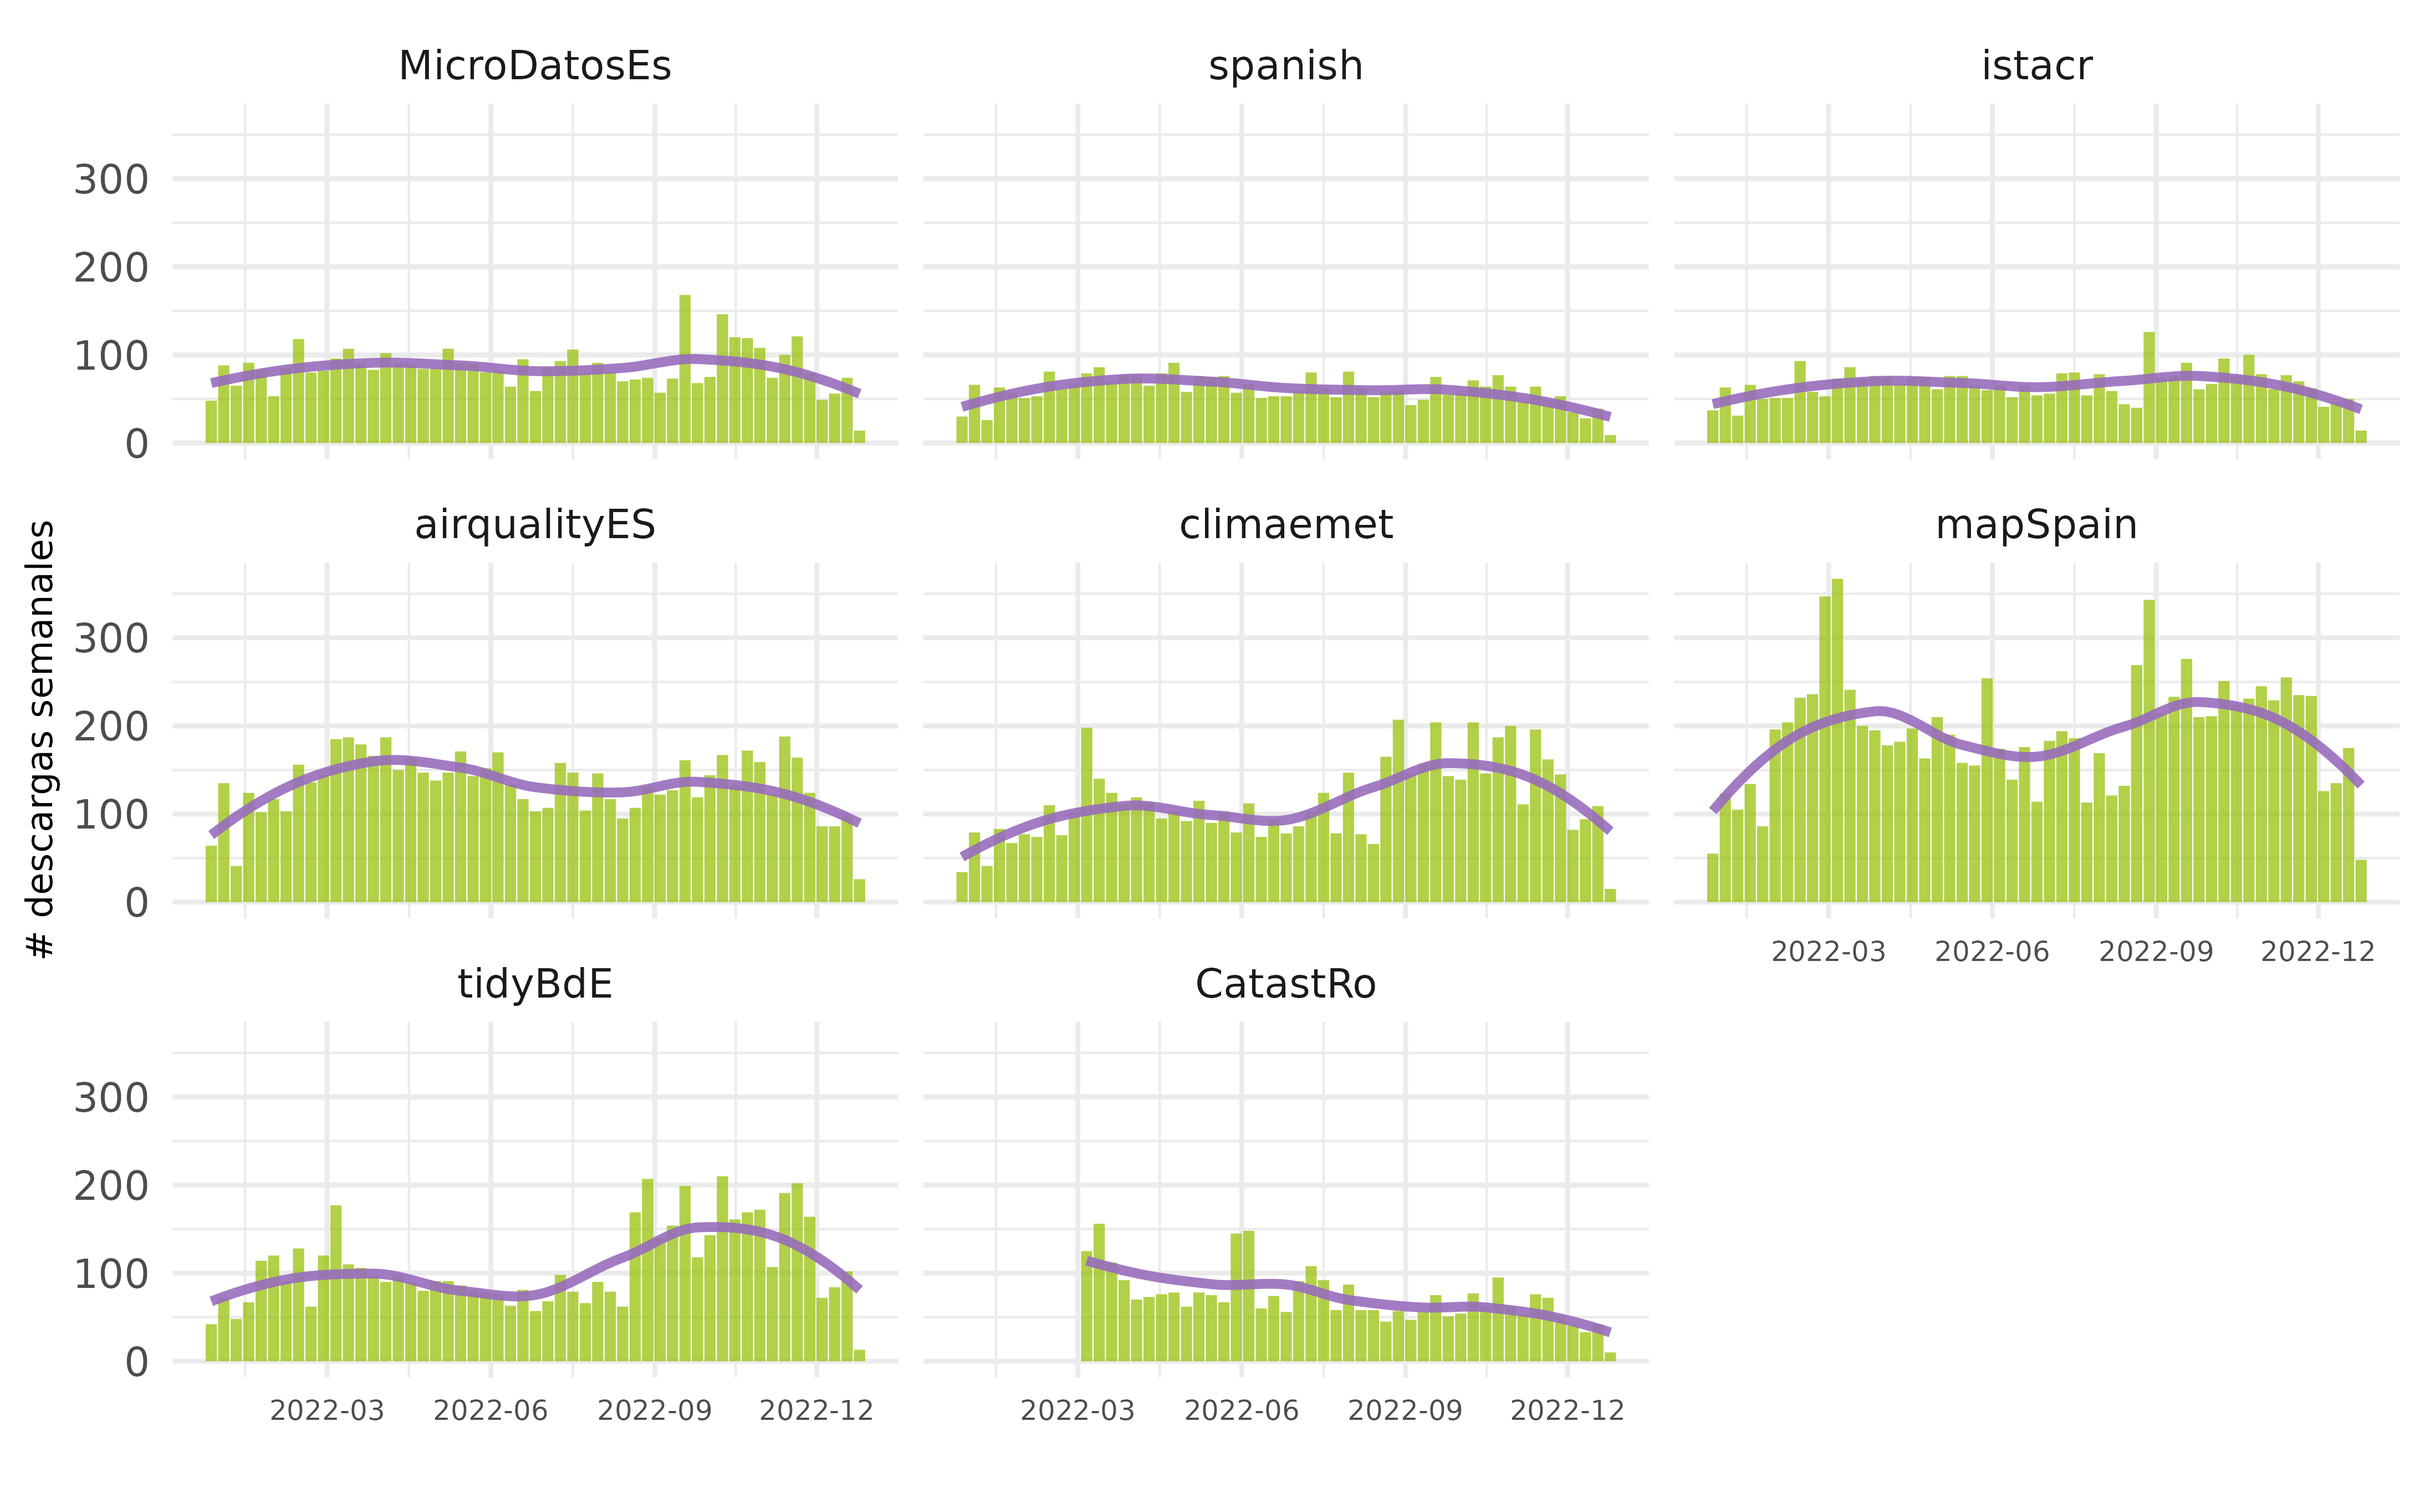
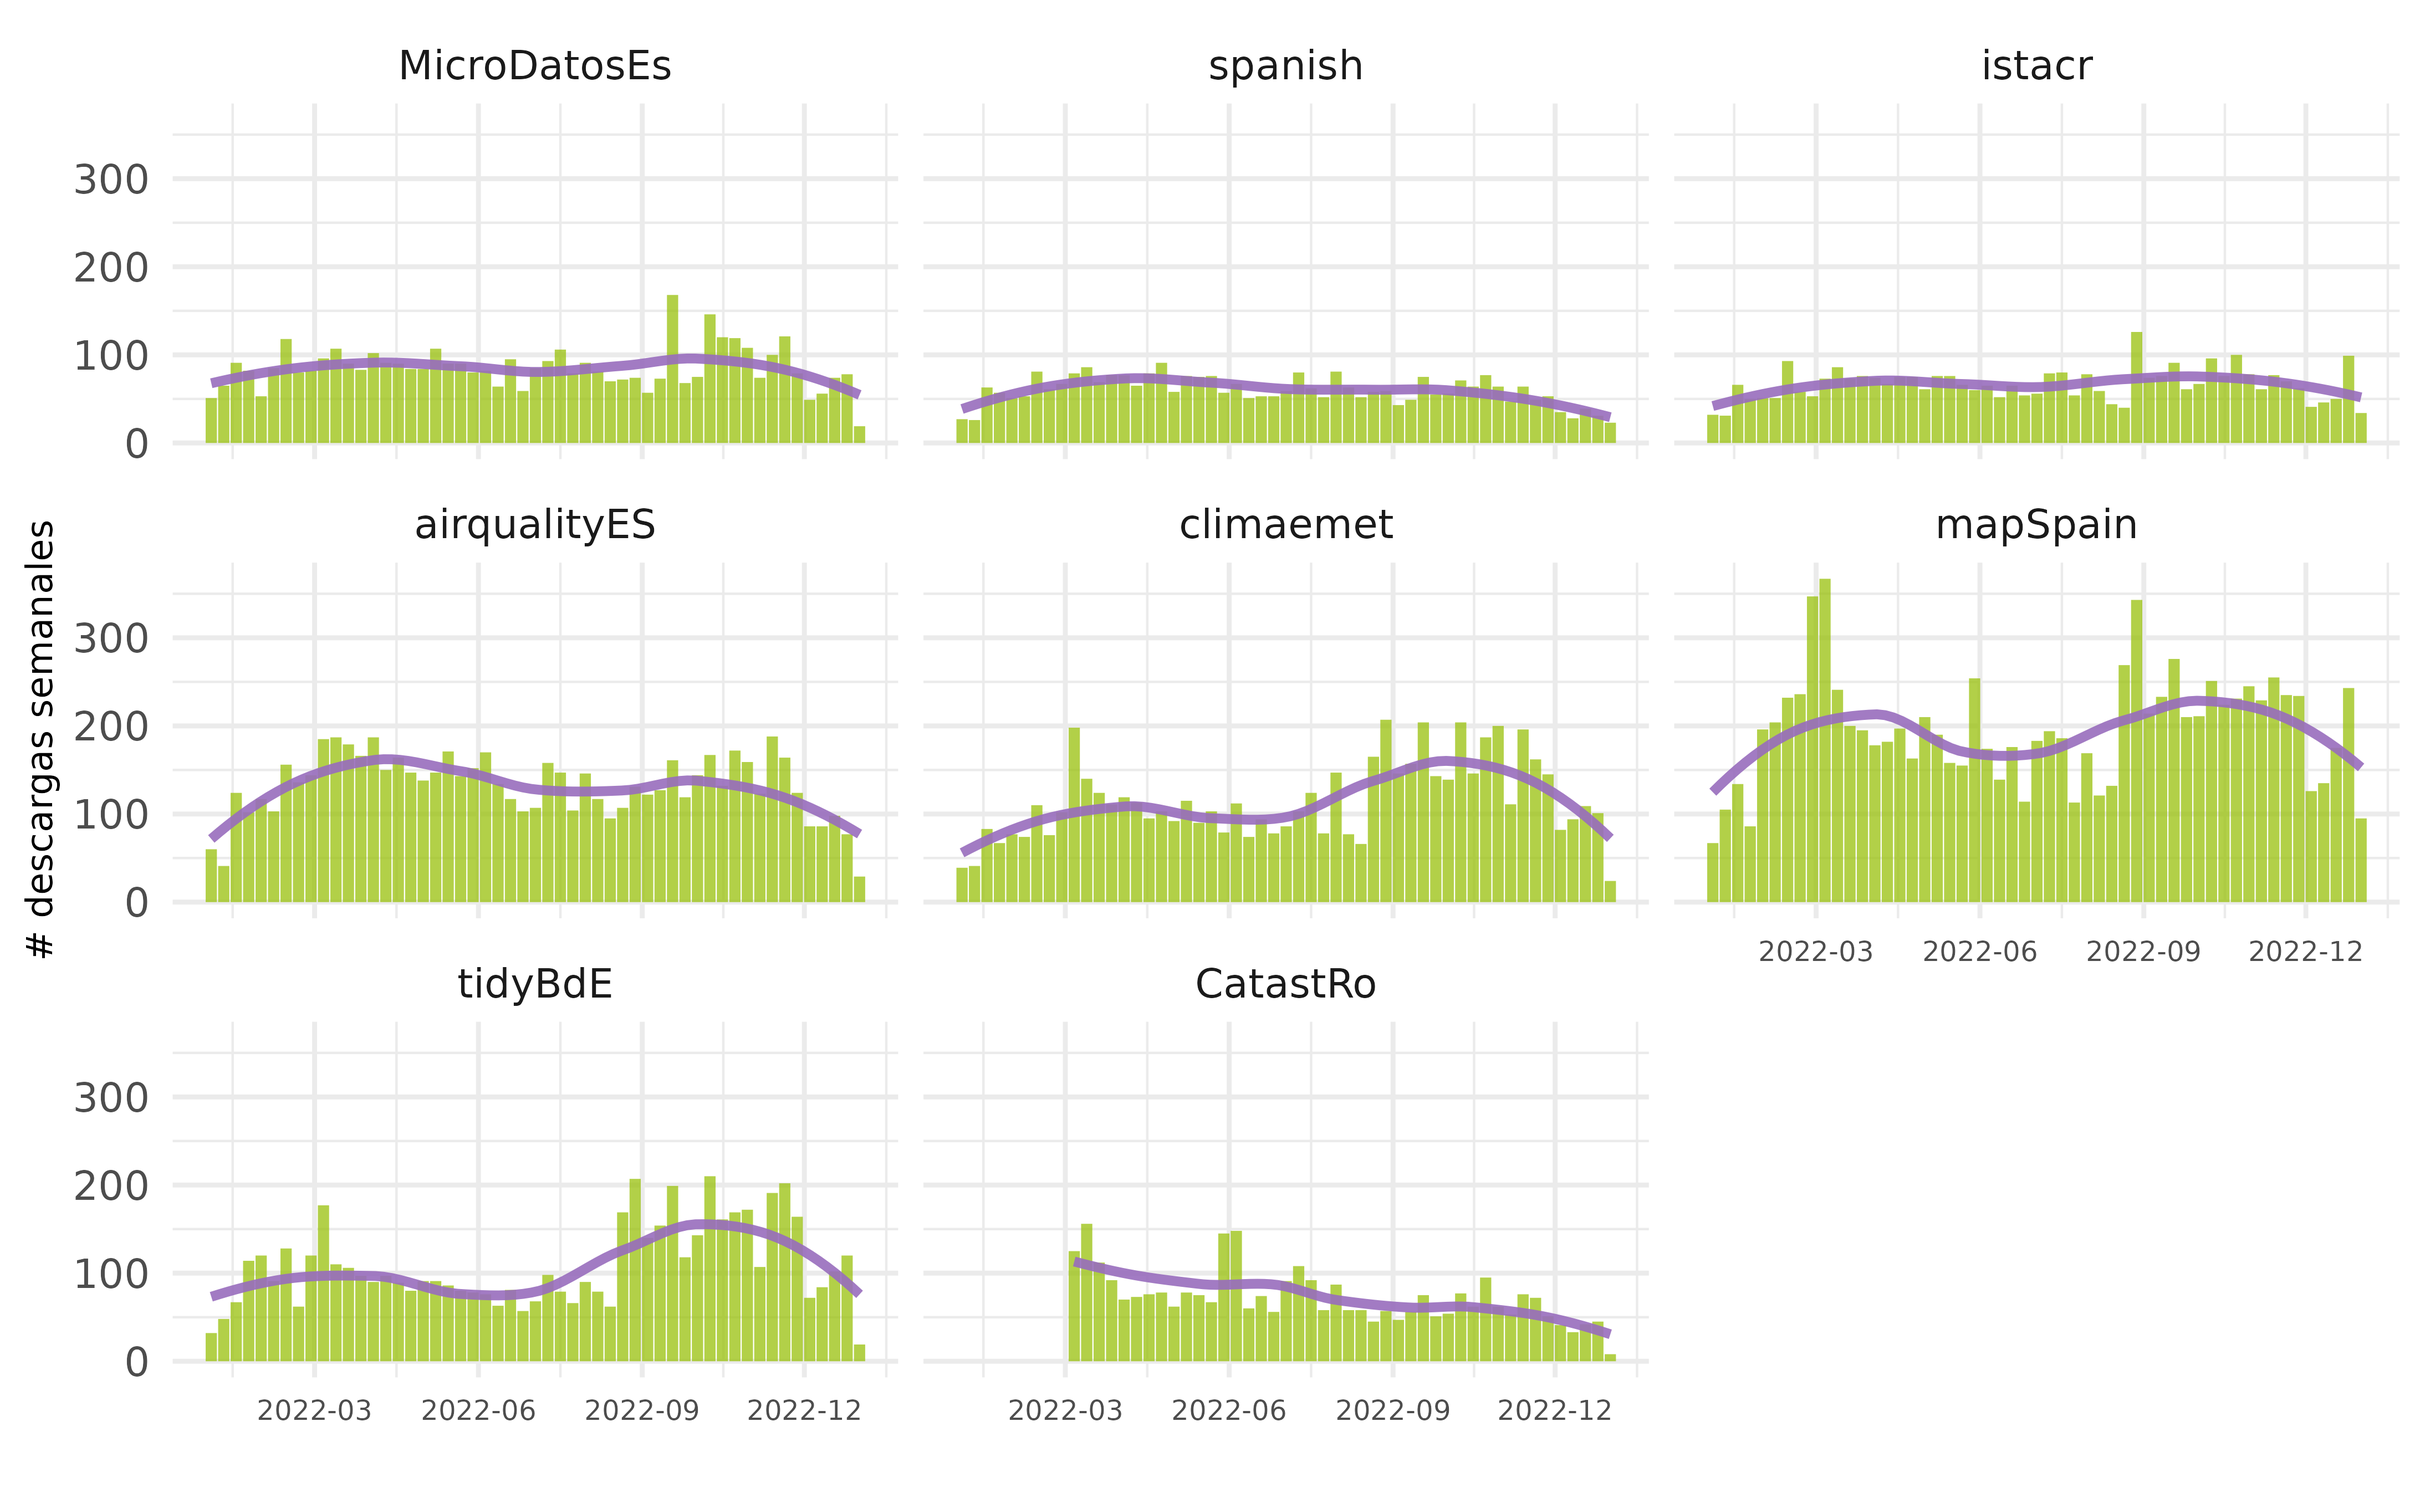
Built site for rostemplate: 0.1.1.9000@9bdd130

diff --git a/articles/descargas.html b/articles/descargas.html
@@ -101,7 +101,7 @@
 
     
     
-<p><em>Fecha de actualización: 22 Dec 2022</em></p>
+<p><em>Fecha de actualización: 29 Dec 2022</em></p>
 <p>Descargas de paquetes de rOpenSpain desde CRAN.</p>
 <div class="section level2">
 <h2 id="total-de-descargas">Total de descargas<a class="anchor" aria-label="anchor" href="#total-de-descargas"></a>
@@ -117,7 +117,7 @@
 <h2 id="datos">Datos<a class="anchor" aria-label="anchor" href="#datos"></a>
 </h2>
 <div class="reactable html-widget html-fill-item-overflow-hidden html-fill-item" id="station-table" style="width:auto;height:auto;"></div>
-<script type="application/json" data-for="station-table">{"x":{"tag":{"name":"Reactable","attribs":{"data":{"paquete":["CatastRo","tidyBdE","mapSpain","climaemet","airqualityES","istacr","spanish","MicroDatosEs"],"en CRAN":["2022-02-28","2021-04-08","2020-11-30","2020-07-07","2020-02-29","2019-04-24","2017-12-14","2013-10-21"],"media descargas diarias":[10.7,16,24.4,16.1,21.2,12.8,11.4,13.2],"ultimo dia":[5,6,21,5,11,8,5,5],"ultima semana":[29,54,118,58,70,39,33,61],"ultimo mes":[167,378,647,403,380,204,153,253],"ultimo año":[3158,5732,10253,6076,7072,3483,3188,4538]},"columns":[{"id":"paquete","name":"paquete","type":"character"},{"id":"en CRAN","name":"en CRAN","type":"Date"},{"id":"media descargas diarias","name":"media descargas diarias","type":"numeric"},{"id":"ultimo dia","name":"ultimo dia","type":"numeric"},{"id":"ultima semana","name":"ultima semana","type":"numeric"},{"id":"ultimo mes","name":"ultimo mes","type":"numeric"},{"id":"ultimo año","name":"ultimo año","type":"numeric"}],"filterable":true,"searchable":true,"showPageSizeOptions":true,"paginationType":"jump","striped":true,"elementId":"station-table","dataKey":"ae15e701faf248ce11bce1e3498cf6f6"},"children":[]},"class":"reactR_markup"},"evals":[],"jsHooks":[]}</script>
+<script type="application/json" data-for="station-table">{"x":{"tag":{"name":"Reactable","attribs":{"data":{"paquete":["CatastRo","tidyBdE","mapSpain","climaemet","airqualityES","istacr","spanish","MicroDatosEs"],"en CRAN":["2022-02-28","2021-04-08","2020-11-30","2020-07-07","2020-02-29","2019-04-24","2017-12-14","2013-10-21"],"media descargas diarias":[10.6,16,24.6,16.1,21.1,12.9,11.4,13.2],"ultimo dia":[3,3,33,10,5,12,11,4],"ultima semana":[29,114,264,92,66,103,37,70],"ultimo mes":[154,364,715,375,332,253,144,255],"ultimo año":[3201,5776,10432,6112,7013,3534,3164,4536]},"columns":[{"id":"paquete","name":"paquete","type":"character"},{"id":"en CRAN","name":"en CRAN","type":"Date"},{"id":"media descargas diarias","name":"media descargas diarias","type":"numeric"},{"id":"ultimo dia","name":"ultimo dia","type":"numeric"},{"id":"ultima semana","name":"ultima semana","type":"numeric"},{"id":"ultimo mes","name":"ultimo mes","type":"numeric"},{"id":"ultimo año","name":"ultimo año","type":"numeric"}],"filterable":true,"searchable":true,"showPageSizeOptions":true,"paginationType":"jump","striped":true,"elementId":"station-table","dataKey":"8fbfc03dd9653f2fdbe22dcaf1442472"},"children":[]},"class":"reactR_markup"},"evals":[],"jsHooks":[]}</script>
 </div>
   </main><aside class="col-md-3"><nav id="toc"><h2>En esta página</h2>
     </nav></aside>
